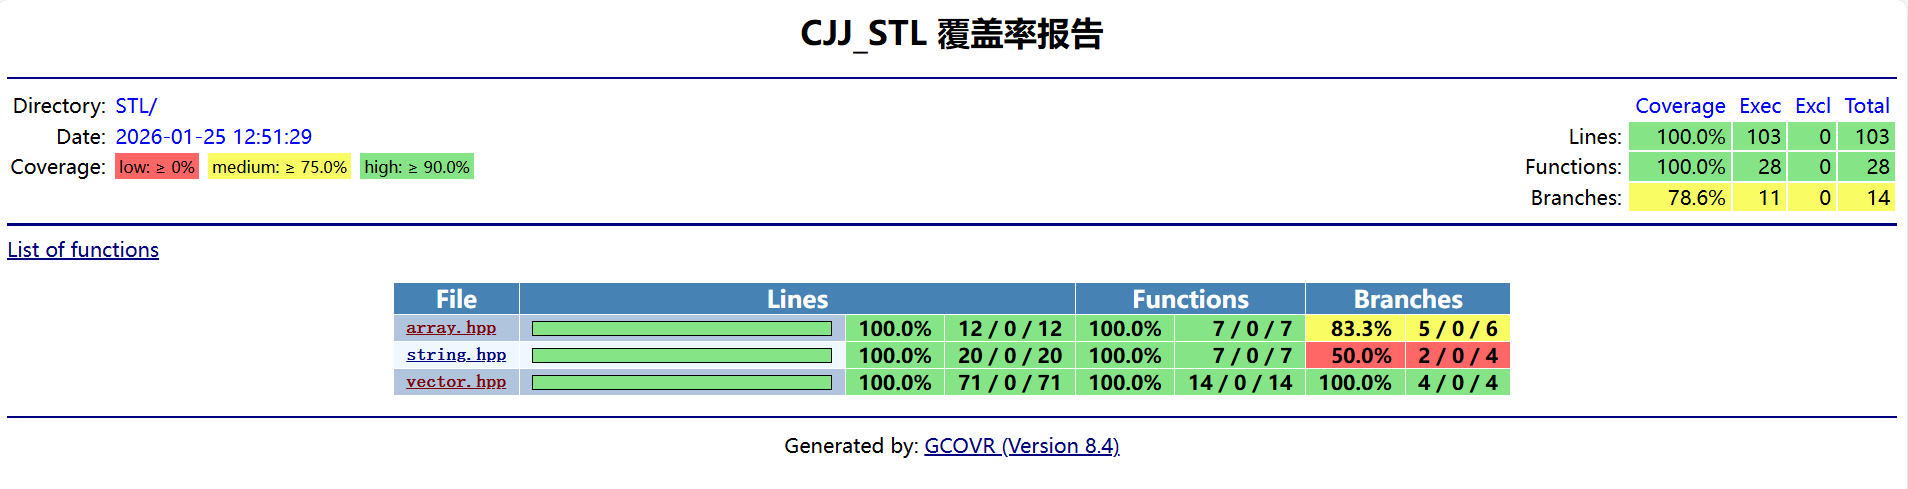
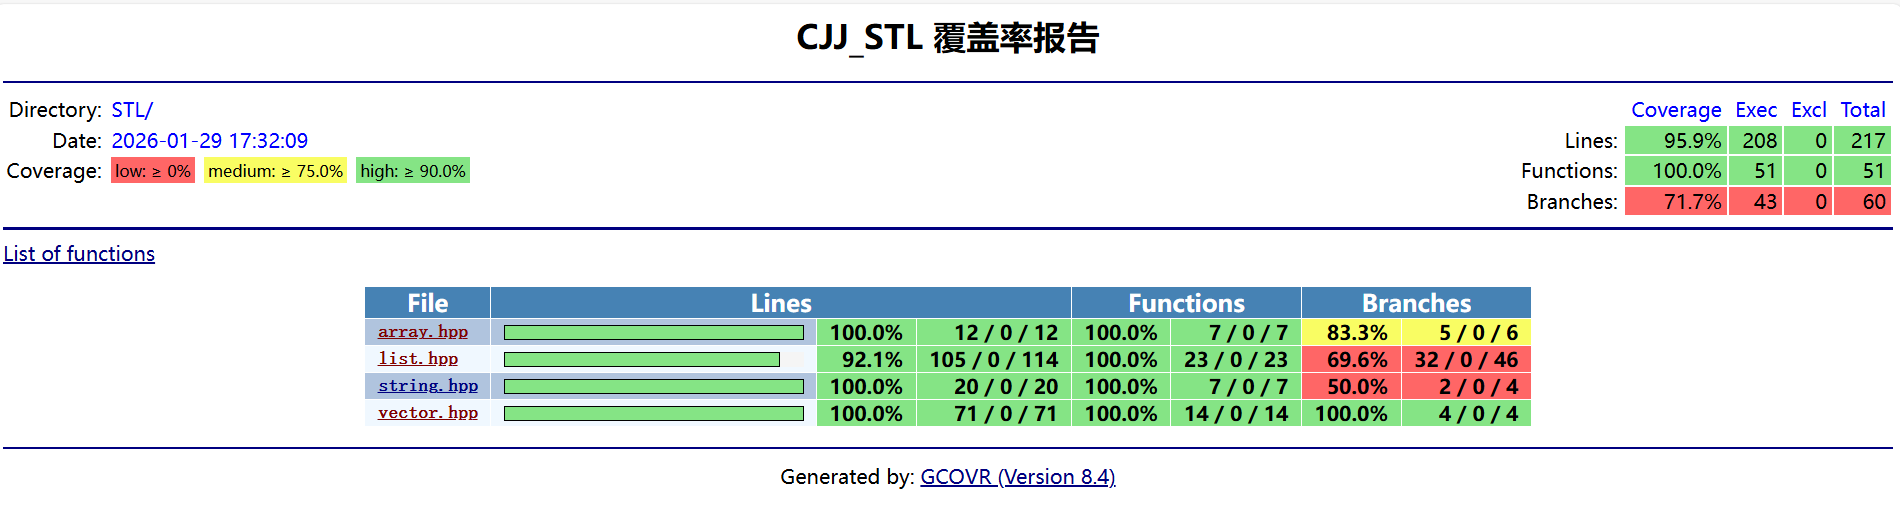
[feat] 完成list.hpp.

Changed region(s): [[0.0, 0.5521, 1.0, 0.9816], [0.0, 0.1534, 1.0, 0.5521], [0.4037, 0.0307, 0.59, 0.1227]]

diff --git a/STL/list.hpp b/STL/list.hpp
@@ -1,0 +1,146 @@
+#pragma once
+
+#include <cstddef>
+namespace cstd {
+
+template<class T>
+struct node {
+    T data;
+    node* next;
+    node* prev;
+    node(const T& d) : data(d), next(nullptr), prev(nullptr) {}
+};
+
+template<class T>
+class list {
+private:
+    class list_iterator {
+    private:
+        node<T>* ptr;
+    public:
+        list_iterator(node<T> *p = nullptr) : ptr(p) {}
+        T& operator*() const {
+            return ptr->data;
+        }
+        list_iterator& operator++() {
+            ptr = ptr->next;
+            return *this;
+        }
+        bool operator==(const list_iterator &t) const {
+            return t.ptr == this->ptr;
+        }
+        bool operator!=(const list_iterator &t) const {
+            return t.ptr != this->ptr;
+        }
+    };
+
+public:
+    typedef list_iterator iterator; //类型别名  
+
+    list()
+    : head_(nullptr), tail_(nullptr) {}
+
+    list(const list& other) {
+        head_ = nullptr;
+        tail_ = nullptr;
+        node<T>* current = other.head_;
+        while (current) {
+            push_back(current->data);
+            current = current->next;
+        }
+    }
+
+    list& operator=(const list& other) {
+        if (this != &other) {
+            while (head_) {
+                pop_front();
+            }
+            node<T>* current = other.head_;
+            while (current) {
+                push_back(current->data);
+                current = current->next;
+            }
+        }
+        return *this;
+    }
+
+    ~list() {
+        while (head_) {
+            pop_front();
+        }
+    }
+
+    void push_back(const T& data) {
+        node<T>* new_node = new node<T>(data);
+        if (!head_) {
+            head_ = new_node;
+            tail_ = new_node;
+        } else {
+            tail_->next = new_node;
+            new_node->prev = tail_;
+            tail_ = new_node;
+        }
+    }
+
+    void push_front(const T& data) {
+        node<T>* new_node = new node<T>(data);
+        if (!head_) {
+            head_ = new_node;
+            tail_ = new_node;
+        } else {
+            new_node->next = head_;
+            head_->prev = new_node;
+            head_ = new_node;
+        }
+    }
+
+    void pop_back() {
+        if (!tail_) return;
+        node<T>* to_delete = tail_;
+        tail_ = tail_->prev;
+        if (tail_) tail_->next = nullptr;
+        else head_ = nullptr;
+        delete to_delete;
+    }
+
+    void pop_front() {
+        if (!head_) return;
+        node<T>* to_delete = head_;
+        head_ = head_->next;
+        if (head_) head_->prev = nullptr;
+        else tail_ = nullptr;
+        delete to_delete;
+    }
+
+    size_t size() const {
+        size_t count = 0;
+        node<T>* current = head_;
+        while (current) {
+            count++;
+            current = current->next;
+        }
+        return count;
+    }
+
+    T& front() {
+        return head_->data;
+    }
+
+    T& back() {
+        return tail_->data;
+    }
+
+    iterator begin() {
+        return iterator(head_);
+    }
+
+    iterator end() {
+        return iterator(nullptr);
+    }
+
+private:
+    node<T>* head_;
+    node<T>* tail_;
+};
+
+}

diff --git a/test/list_test.cpp b/test/list_test.cpp
@@ -1,0 +1,78 @@
+#include <gtest/gtest.h>
+#include "list.hpp"
+
+class ListTest : public ::testing::Test {
+public:
+    void SetUp(){
+    }
+    void TearDown(){
+        
+    }
+};
+
+TEST_F(ListTest, ListWithInt) {
+    cstd::list<int> data;
+    EXPECT_NO_THROW(
+        data.push_back(2);
+        data.push_back(3);
+        data.push_front(1);
+    );
+    EXPECT_EQ(data.size(), 3);
+}
+
+TEST_F(ListTest, ListWithString) {
+    cstd::list<std::string> data;
+    EXPECT_NO_THROW(
+        data.push_back("world");
+        data.push_front("hello");
+    );
+    EXPECT_EQ(data.size(), 2);
+}
+
+TEST_F(ListTest, PopElements) {
+    cstd::list<int> data;
+    data.push_back(1);
+    data.push_back(2);
+    data.push_back(3);
+    EXPECT_NO_THROW(
+        data.pop_front();
+        data.pop_back();
+    );
+    EXPECT_EQ(data.size(), 1);
+}
+
+TEST_F(ListTest, CopyConstructor) {
+    cstd::list<int> data1;
+    data1.push_back(1);
+    data1.push_back(2);
+    cstd::list<int> data2 = data1; // Copy constructor
+    EXPECT_EQ(data2.size(), 2);
+}
+
+TEST_F(ListTest, CopyAssignment) {
+    cstd::list<int> data1;
+    data1.push_back(1);
+    data1.push_back(2);
+    cstd::list<int> data2;
+    data2 = data1; // Copy constructor
+    EXPECT_EQ(data2.size(), 2);
+}
+
+TEST_F(ListTest, UseIterator) {
+    cstd::list<int> data;
+    cstd::list<int>::iterator it;
+    data.push_back(1);
+    data.push_back(2);
+    data.push_back(3);
+    it = data.begin();
+    EXPECT_EQ(*it, 1);
+    ++it;
+    EXPECT_EQ(*it, 2);
+    ++it;
+    EXPECT_EQ(*it, 3);
+    int sum = 0;
+    for (auto it = data.begin(); it != data.end(); ++it) {
+        sum += *it;
+    }
+    EXPECT_EQ(sum, 6);
+}

diff --git a/readme.md b/readme.md
@@ -10,7 +10,7 @@
 - [x] vector
 - [ ] allocator
 - [ ] iterator
-- [ ] list
+- [x] list
 - [ ] stack
 - [ ] queue
 - [ ] priority_queue
@@ -27,7 +27,15 @@
 
 ## 测试
 
+```shell
+make build GCOVR=ON
+make test
+gcovr -r .
+```
+
 ![覆盖率](assets/cover.png)  
+
+<br>
 
 ## 收获
 
@@ -40,6 +48,8 @@ gcovr -r . --filter STL/
 # 错误用法
 gcovr -r . --filter ./STL/
 ```
+
+<br>
 
 ## 参考
 
